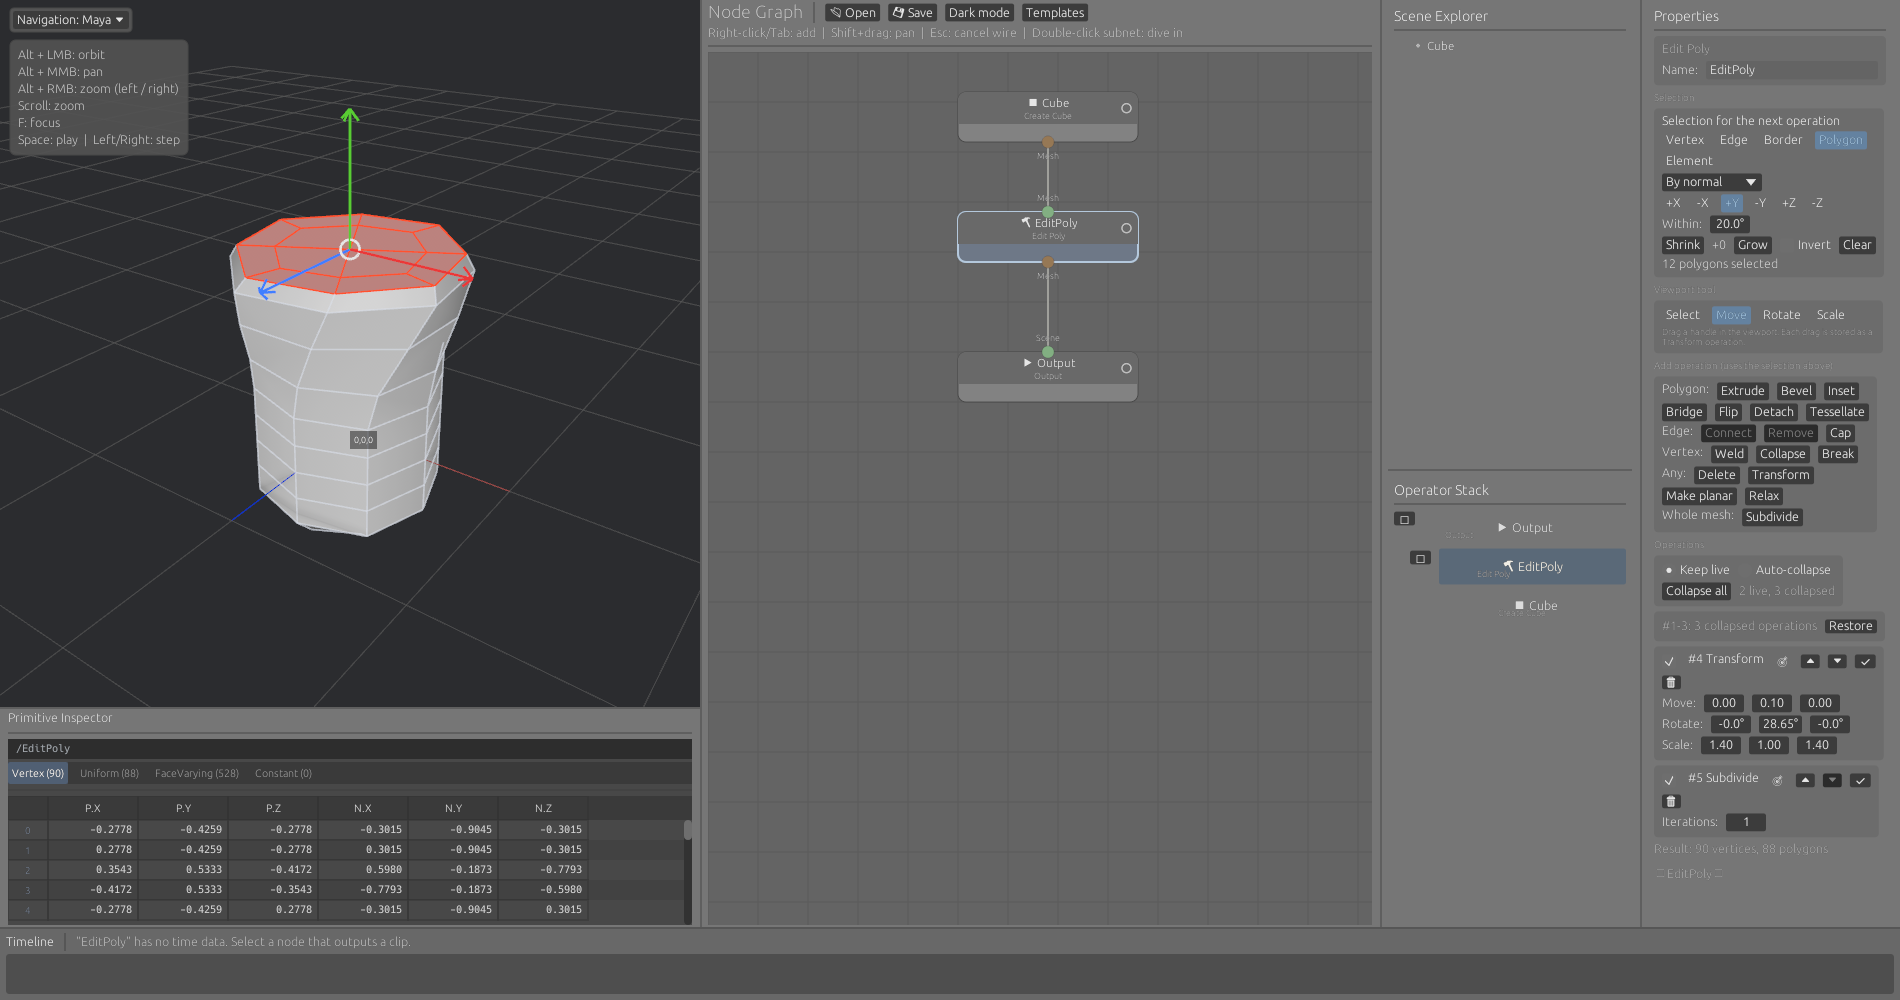
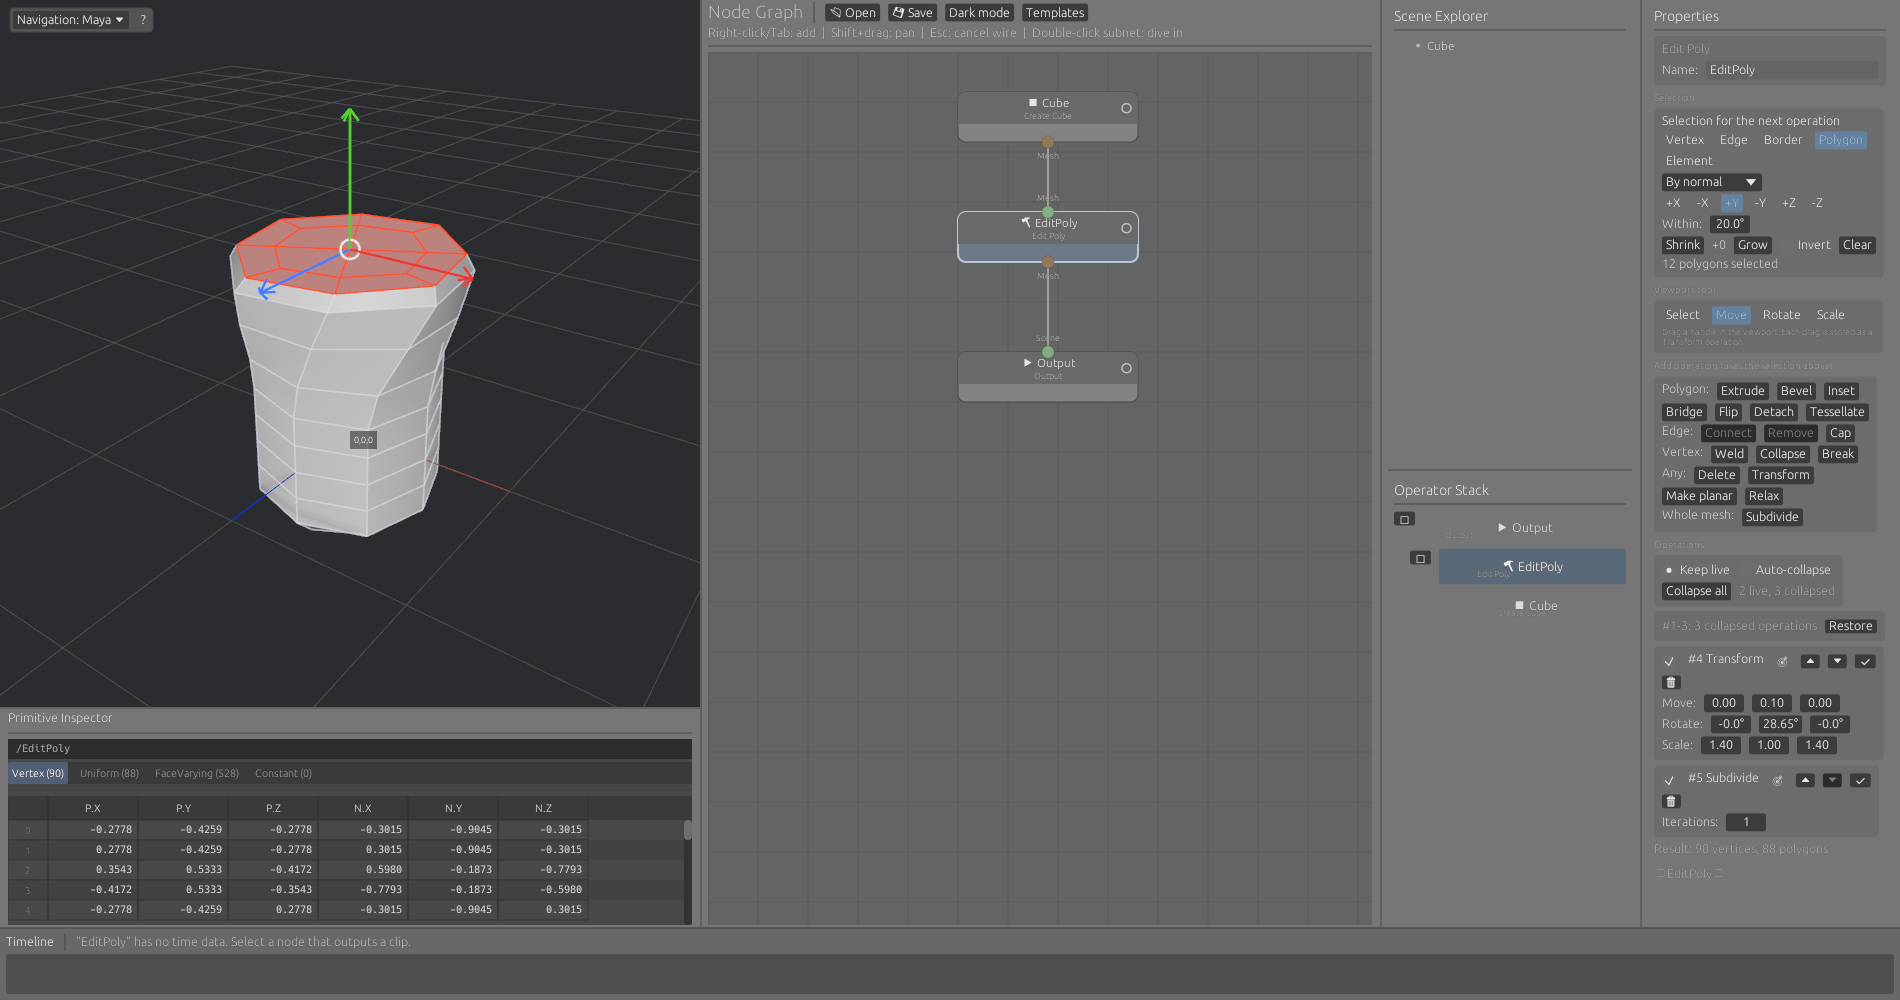
Navigation keys behind a question mark

Changed region(s): [[0.0, 0.0, 0.1242, 0.155]]

diff --git a/src/main.rs b/src/main.rs
@@ -354,6 +354,9 @@ fn dcc_ui(
     // ── Viewport navigation menu and help ─────────────────────────────────────
     let before = *nav_settings;
     let mut chosen = before;
+    // The key list is hidden until the question mark is clicked.
+    let help_id = egui::Id::new("viewport_nav_help");
+    let mut nav_help = ctx.data(|d| d.get_temp::<bool>(help_id)).unwrap_or(false);
     egui::Area::new("viewport_nav_menu".into())
         .fixed_pos(egui::pos2(10.0, 8.0))
         .show(ctx, |ui| {
@@ -363,12 +366,17 @@ fn dcc_ui(
                 .rounding(4.0)
                 .inner_margin(3.0)
                 .show(ui, |ui| {
-                    ui.menu_button(format!("Navigation: {} ⏷", chosen.style.label()), |ui| {
-                        for style in viewport::nav::NavStyle::ALL {
-                            if ui.radio_value(&mut chosen.style, style, style.label()).clicked() { ui.close_menu(); }
+                    ui.horizontal(|ui| {
+                        ui.menu_button(format!("Navigation: {} ⏷", chosen.style.label()), |ui| {
+                            for style in viewport::nav::NavStyle::ALL {
+                                if ui.radio_value(&mut chosen.style, style, style.label()).clicked() { ui.close_menu(); }
+                            }
+                            ui.separator();
+                            ui.checkbox(&mut chosen.invert_zoom, "Invert zoom drag");
+                        });
+                        if ui.selectable_label(nav_help, "?").on_hover_text("Show the navigation keys").clicked() {
+                            nav_help = !nav_help;
                         }
-                        ui.separator();
-                        ui.checkbox(&mut chosen.invert_zoom, "Invert zoom drag");
                     });
                 });
         });
@@ -377,6 +385,8 @@ fn dcc_ui(
         chosen.save();
     }
 
+    ctx.data_mut(|d| d.insert_temp(help_id, nav_help));
+    if nav_help {
     egui::Area::new("viewport_label".into())
         .fixed_pos(egui::pos2(10.0, 40.0))
         .interactable(false)
@@ -395,6 +405,7 @@ fn dcc_ui(
                     }
                 });
         });
+    }
 }
 
 /// Feedback line for graph open / save.

diff --git a/README.md b/README.md
@@ -42,11 +42,11 @@ Modelling
 ![Edit Poly node: collapsed and live operations, move manipulator on the selected polygons](docs/xms_edit_poly.png)
 
 Viewport
-- Navigation menu at the top of the viewport with seven styles: Maya (default), Houdini, XSI, Blender, Max, Modo, Unreal. The choice is kept between sessions
+- Navigation menu at the top of the viewport with seven styles: Maya (default), Houdini, XSI, Blender, Max, Modo, Unreal. The choice is kept between sessions. The question mark next to it lists the keys
 - Navigation follows the cursor position, so it works through remote desktops and mouse sharing tools
 
 Interface
-- Dark mode
+- Light theme by default, dark mode on a button
 - Animation and mocap nodes sit in their own "Animation & Mocap" sub-menu of the add-node menu
 - Panels keep the size they are dragged to, whatever they contain
 

diff --git a/docs/navigation.md b/docs/navigation.md
@@ -1,6 +1,6 @@
 # Viewport navigation
 
-The menu at the top left of the viewport chooses the navigation style. The choice is kept between sessions. The box under the menu lists the keys of the current style.
+The menu at the top left of the viewport chooses the navigation style. The choice is kept between sessions. The question mark next to the menu shows or hides the keys of the current style.
 
 | Style | Orbit | Pan | Zoom drag | Zoom in |
 |---|---|---|---|---|
